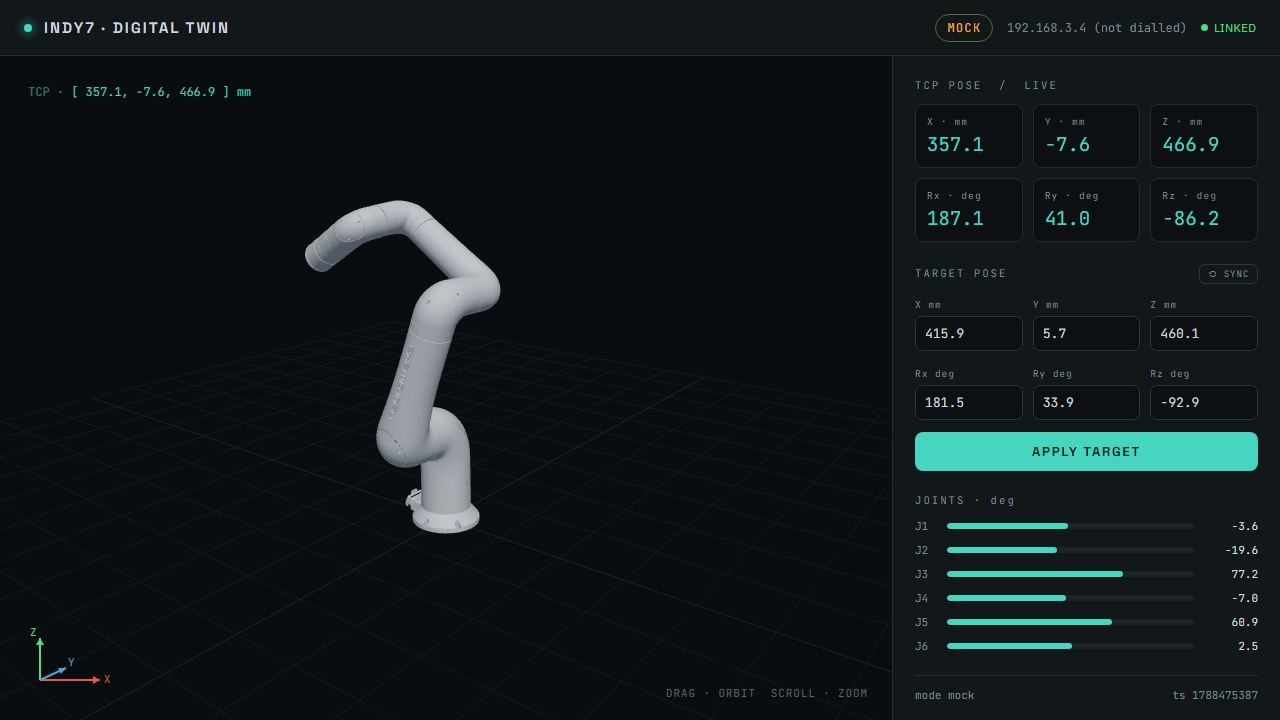
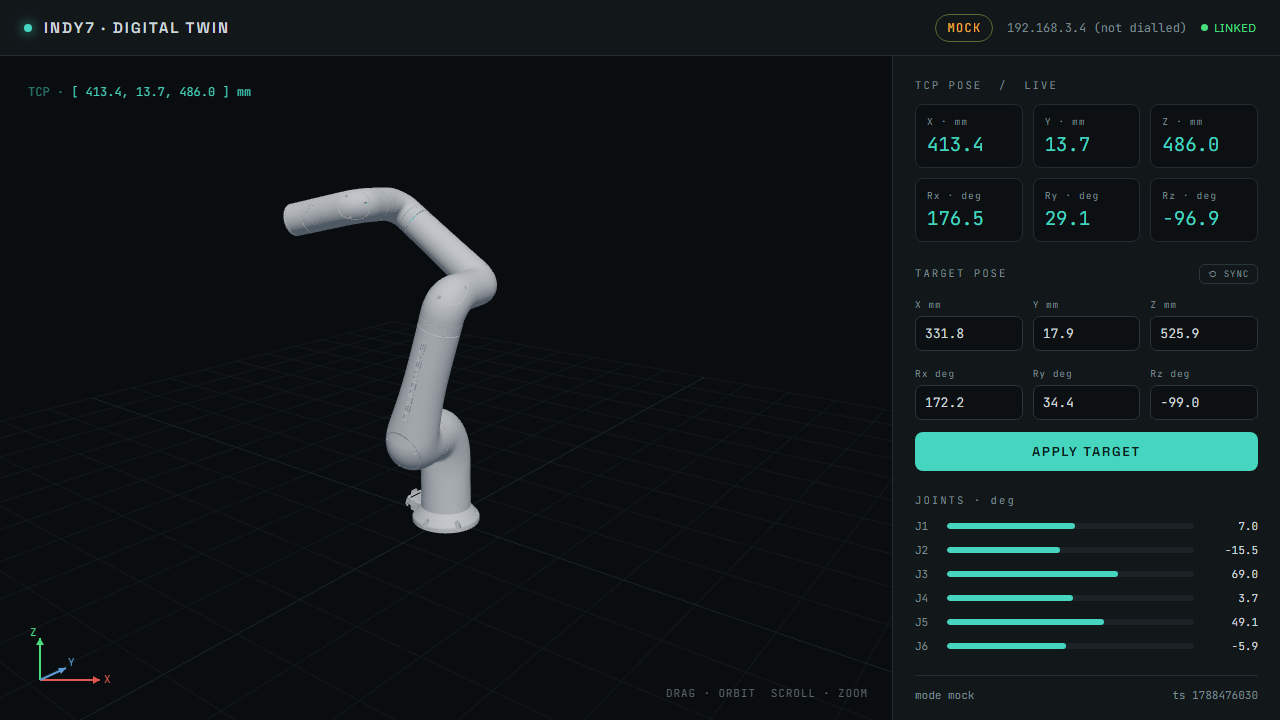
refactor: deslop pass + review polish (N1, N5)
Dead code removed:
- StateResponse.manipulability (never populated)
- get_control_state from the SDK allowlist (never called)
- theme.fontUi (unused token)
- client.ts getPose / poseToTuple / Pose (pose comes from telemetry WS only)

Duplication:
- fmt() was defined identically in PosePanel and ViewportOverlays
  -> src/format.ts fmt1()

Simplification:
- mock.solve_ik: clamp-then-reject -> plain joint-range check (equivalent)

Review follow-ups:
- N1: staleness watchdog now ws.close()s a half-open socket so the
  backoff path reconnects
- N5: .coverage gitignored and untracked

Net -16 LOC. 18 pytest / build 0 err / playwright e2e all green.

Claude-Session: https://claude.ai/code/session_015hfHNxPa7KaB5F5Zfkzwuk

diff --git a/frontend/src/components/PosePanel.tsx b/frontend/src/components/PosePanel.tsx
@@ -1,6 +1,7 @@
 import { useEffect, useState, type CSSProperties } from 'react'
 import { AXIS_LABELS, AXIS_UNITS, T } from '../theme'
 import { IkError, solveIk, type PoseTuple } from '../api/client'
+import { fmt1 } from '../format'
 import { SectionHead } from './JointBars'
 
 interface Props {
@@ -60,7 +61,7 @@ export default function PosePanel({ pose, jointsDeg, stale, onApply }: Props) {
               <div style={cellLabel}>
                 {label} · {AXIS_UNITS[i]}
               </div>
-              <div style={cellValue}>{pose ? fmt(pose[i]) : '—'}</div>
+              <div style={cellValue}>{pose ? fmt1(pose[i]) : '—'}</div>
             </div>
           ))}
         </div>
@@ -107,8 +108,6 @@ export default function PosePanel({ pose, jointsDeg, stale, onApply }: Props) {
     </>
   )
 }
-
-const fmt = (n: number) => (n < 0 ? '−' : '') + Math.abs(n).toFixed(1)
 
 const grid3: CSSProperties = {
   display: 'grid',

diff --git a/frontend/src/api/client.ts b/frontend/src/api/client.ts
@@ -6,15 +6,6 @@ export interface Health {
   host: string
 }
 
-export interface Pose {
-  x: number
-  y: number
-  z: number
-  rx: number
-  ry: number
-  rz: number
-}
-
 export type PoseTuple = [number, number, number, number, number, number]
 
 export class IkError extends Error {
@@ -29,12 +20,6 @@ export class IkError extends Error {
 export async function getHealth(): Promise<Health> {
   const r = await fetch('/api/health')
   if (!r.ok) throw new Error(`health ${r.status}`)
-  return r.json()
-}
-
-export async function getPose(): Promise<Pose> {
-  const r = await fetch('/api/pose')
-  if (!r.ok) throw new Error(`pose ${r.status}`)
   return r.json()
 }
 
@@ -56,5 +41,3 @@ export async function solveIk(
   const body = (await r.json()) as { jpos: number[] }
   return body.jpos
 }
-
-export const poseToTuple = (p: Pose): PoseTuple => [p.x, p.y, p.z, p.rx, p.ry, p.rz]

diff --git a/frontend/src/hooks/useTelemetry.ts b/frontend/src/hooks/useTelemetry.ts
@@ -63,7 +63,9 @@ export function useTelemetry(): Telemetry {
 
     connect()
 
-    // Staleness watchdog: socket looks fine but frames dried up.
+    // Staleness watchdog: socket looks fine but frames dried up (incl. a
+    // half-open TCP connection that never sends a FIN). Force a close so the
+    // onclose backoff path actually reconnects.
     const watchdog = setInterval(() => {
       if (
         ws?.readyState === WebSocket.OPEN &&
@@ -71,6 +73,7 @@ export function useTelemetry(): Telemetry {
         Date.now() - lastFrameAt.current > STALE_AFTER_MS
       ) {
         setLink('reconnecting')
+        ws.close()
       }
     }, 500)
 

diff --git a/frontend/src/components/ViewportOverlays.tsx b/frontend/src/components/ViewportOverlays.tsx
@@ -1,6 +1,5 @@
+import { fmt1 } from '../format'
 import { T } from '../theme'
-
-const fmt = (n: number) => (n < 0 ? '−' : '') + Math.abs(n).toFixed(1)
 
 interface Props {
   pose: number[] | null
@@ -23,7 +22,7 @@ export default function ViewportOverlays({ pose, stale }: Props) {
       >
         <span style={{ fontFamily: T.fontMono, fontSize: 12, color: T.teal }}>
           <span style={{ opacity: 0.55 }}>TCP · </span>
-          {pose ? `[ ${fmt(pose[0])}, ${fmt(pose[1])}, ${fmt(pose[2])} ] mm` : '[ … ]'}
+          {pose ? `[ ${fmt1(pose[0])}, ${fmt1(pose[1])}, ${fmt1(pose[2])} ] mm` : '[ … ]'}
         </span>
       </div>
 

diff --git a/frontend/src/theme.ts b/frontend/src/theme.ts
@@ -21,7 +21,6 @@ export const T = {
   viewportGrid: 'rgba(70,214,192,0.055)',
   viewportBg: 'radial-gradient(circle at 44% 36%, #16201f, #0a0d0f 72%)',
   fontDisplay: "'Space Grotesk', system-ui, sans-serif",
-  fontUi: "'IBM Plex Sans', system-ui, sans-serif",
   fontMono: "'JetBrains Mono', ui-monospace, monospace",
 } as const
 

diff --git a/frontend/src/format.ts b/frontend/src/format.ts
@@ -1,0 +1,3 @@
+/** One decimal, with a real minus sign (U+2212) for negatives. */
+export const fmt1 = (n: number): string =>
+  (n < 0 ? '−' : '') + Math.abs(n).toFixed(1)

diff --git a/backend/app/robot/mock.py b/backend/app/robot/mock.py
@@ -74,15 +74,15 @@ class MockRobot(RobotService):
         # No real controller: nudge the seed toward the requested pose so the
         # rendered model moves, and reject targets outside a plausible envelope.
         reach = math.sqrt(tpos[0] ** 2 + tpos[1] ** 2 + tpos[2] ** 2)
-        if reach > 1100.0 or reach < 150.0:
+        if not 150.0 <= reach <= 1100.0:
             raise IkFailed(f"target out of reach ({reach:.0f} mm)")
         seed = list(init_jpos)
-        seed[0] = max(-_LIMIT, min(_LIMIT, -(tpos[5] + 90.0)))
-        seed[1] = max(-_LIMIT, min(_LIMIT, (tpos[2] - 400.0) / 6.0))
-        seed[2] = max(-_LIMIT, min(_LIMIT, (tpos[0] - 350.0) / 4.0 + 90.0))
-        seed[3] = max(-_LIMIT, min(_LIMIT, 180.0 - tpos[3]))
-        seed[4] = max(-_LIMIT, min(_LIMIT, tpos[4] + 20.0))
-        if any(abs(v) >= _LIMIT for v in seed):
+        seed[0] = -(tpos[5] + 90.0)
+        seed[1] = (tpos[2] - 400.0) / 6.0
+        seed[2] = (tpos[0] - 350.0) / 4.0 + 90.0
+        seed[3] = 180.0 - tpos[3]
+        seed[4] = tpos[4] + 20.0
+        if any(abs(v) > _LIMIT for v in seed):
             raise IkFailed("solution exceeds joint limits")
         self._center = list(seed)
         return seed

diff --git a/backend/app/robot/indy.py b/backend/app/robot/indy.py
@@ -20,7 +20,7 @@ from app.schemas import PoseDTO, TelemetryFrame
 # these methods may pass -- so no code path (or future edit) can command the
 # physical robot, whatever string it hands to ``_call``.
 _ALLOWED_SDK_CALLS = frozenset(
-    {"get_control_data", "get_control_state", "inverse_kin", "forward_kin", "set_simulation_mode"}
+    {"get_control_data", "inverse_kin", "forward_kin", "set_simulation_mode"}
 )
 
 

diff --git a/backend/app/schemas.py b/backend/app/schemas.py
@@ -43,7 +43,6 @@ class IkResponse(BaseModel):
 class StateResponse(BaseModel):
     q: list[float]
     p: list[float]
-    manipulability: float | None = None
 
 
 class TelemetryFrame(BaseModel):
